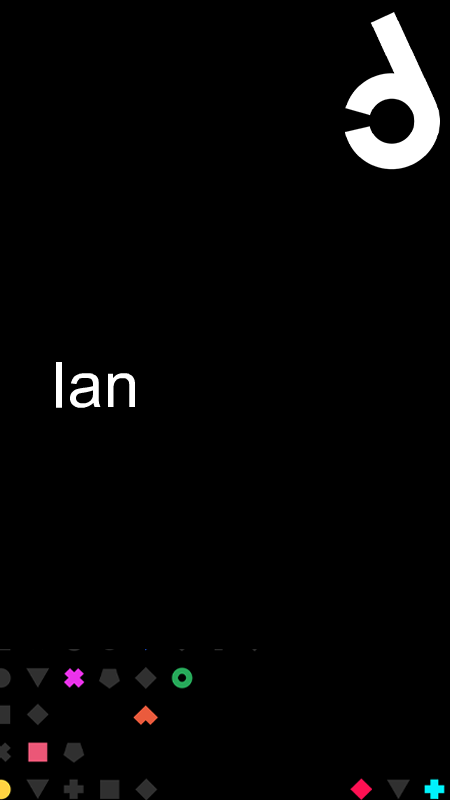
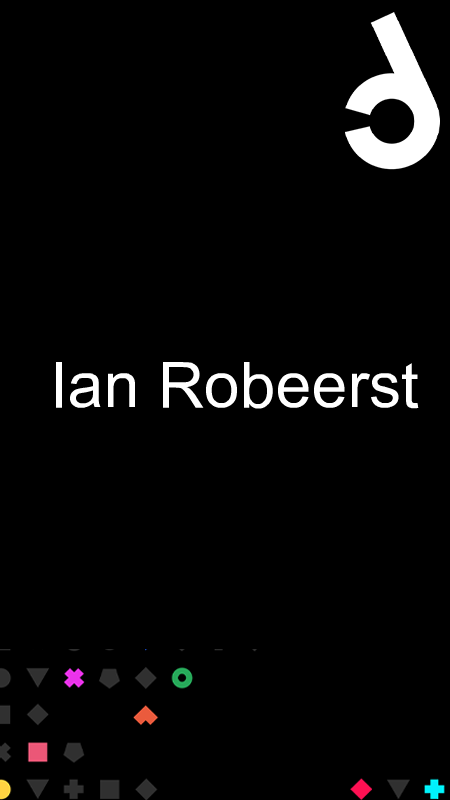
Finished Demo

Changed region(s): [[0.3422, 0.4375, 0.9333, 0.5312]]

diff --git a/Api2Img2NFT Demo/Js2Img/main.js b/Api2Img2NFT Demo/Js2Img/main.js
@@ -2,20 +2,21 @@ import { createRequire } from 'module';
 const require = createRequire(import.meta.url);
 
 const fs = require('fs');
-let name;
+let firstName;
+let lastName;
 
 fs.readFile('fakeAPI/hupber.json', (err, data) => {
     if (err) throw err;
-    name = JSON.parse(data).firstname;
-    console.log(name);
+    firstName = JSON.parse(data).firstname;
+    lastName = JSON.parse(data).lastname;
 
-    generateIMG(name);
+    generateIMG(firstName, lastName);
 });
 
 
 const Jimp = require("jimp");
 
-async function generateIMG(name){
+async function generateIMG(firstName, lastName){
     
     //Read the image
     const image = await Jimp.read("imagesTemplate/handpickedDiploma.png");
@@ -28,7 +29,7 @@ async function generateIMG(name){
             font, 
             50, //x
             350, //y
-            name //De text op de IMG
+            firstName +" "+ lastName //De text op de IMG
         )
         //Save Text
         .write("imagesTemplate/edited-handpickedDiploma.png");
